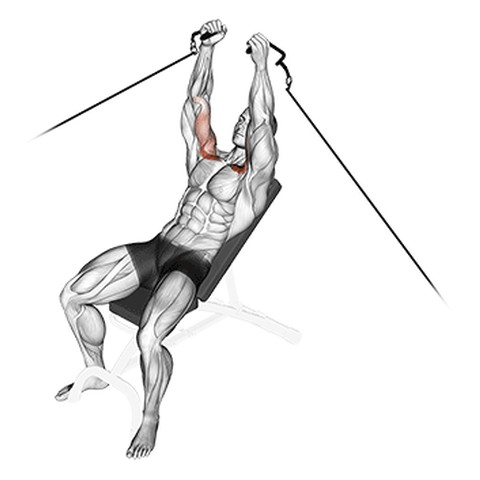
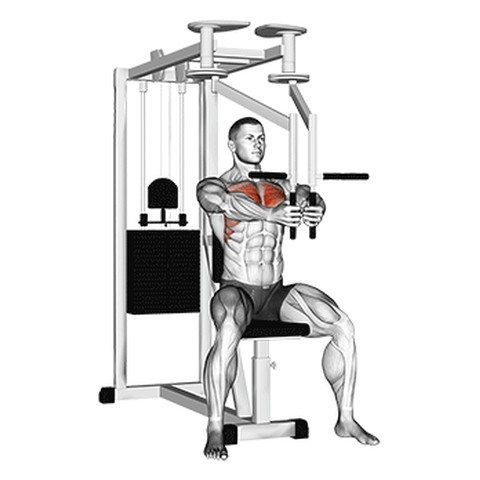
Fix two more previews that used the wrong station.
Neutral pulldown was the wide-grip lat machine, and the upper-chest fly machine was a cable fly.

diff --git a/partials/training.html b/partials/training.html
@@ -48,31 +48,31 @@
                     </div>
                     <div class="space-y-3">
                         <div class="exercise-card bg-[#292524] p-3 rounded-2xl flex gap-3 sm:gap-4">
-                            <img src="images/incline_dumbbell_press.jpg?v=2.4.55" class="w-12 h-12 sm:w-16 sm:h-16 object-contain bg-white rounded-xl flex-shrink-0">
+                            <img src="images/incline_dumbbell_press.jpg?v=2.4.56" class="w-12 h-12 sm:w-16 sm:h-16 object-contain bg-white rounded-xl flex-shrink-0">
                             <div class="text-sm sm:text-base pt-0.5">1. 上斜啞鈴推胸 (Incline Dumbbell Press)</div>
                         </div>
                         <div class="exercise-card bg-[#292524] p-3 rounded-2xl flex gap-3 sm:gap-4">
-                            <img src="images/flat_dumbbell_press.jpg?v=2.4.55" class="w-12 h-12 sm:w-16 sm:h-16 object-contain bg-white rounded-xl flex-shrink-0">
+                            <img src="images/flat_dumbbell_press.jpg?v=2.4.56" class="w-12 h-12 sm:w-16 sm:h-16 object-contain bg-white rounded-xl flex-shrink-0">
                             <div class="text-sm sm:text-base pt-0.5">2. 平板啞鈴推胸 (Flat Dumbbell Press)</div>
                         </div>
                         <div class="exercise-card bg-[#292524] p-3 rounded-2xl flex gap-3 sm:gap-4">
-                            <img src="images/lower_chest_cable_fly.jpg?v=2.4.55" class="w-12 h-12 sm:w-16 sm:h-16 object-contain bg-white rounded-xl flex-shrink-0">
+                            <img src="images/lower_chest_cable_fly.jpg?v=2.4.56" class="w-12 h-12 sm:w-16 sm:h-16 object-contain bg-white rounded-xl flex-shrink-0">
                             <div class="text-sm sm:text-base pt-0.5">3. 下胸繩索飛鳥 (Lower Chest Cable Fly)</div>
                         </div>
                         <div class="exercise-card bg-[#292524] p-3 rounded-2xl flex gap-3 sm:gap-4">
-                            <img src="images/tricep_rope_pushdown.jpg?v=2.4.55" class="w-12 h-12 sm:w-16 sm:h-16 object-contain bg-white rounded-xl flex-shrink-0">
+                            <img src="images/tricep_rope_pushdown.jpg?v=2.4.56" class="w-12 h-12 sm:w-16 sm:h-16 object-contain bg-white rounded-xl flex-shrink-0">
                             <div class="text-sm sm:text-base pt-0.5">4. 繩索三頭下壓 (Tricep Rope Pushdown)</div>
                         </div>
                         <div class="exercise-card bg-[#292524] p-3 rounded-2xl flex gap-3 sm:gap-4">
-                            <img src="images/cable_overhead_triceps.jpg?v=2.4.55" class="w-12 h-12 sm:w-16 sm:h-16 object-contain bg-white rounded-xl flex-shrink-0">
+                            <img src="images/cable_overhead_triceps.jpg?v=2.4.56" class="w-12 h-12 sm:w-16 sm:h-16 object-contain bg-white rounded-xl flex-shrink-0">
                             <div class="text-sm sm:text-base pt-0.5">5. 繩索過頭三頭伸展 (Cable Overhead Triceps Extension)</div>
                         </div>
                         <div class="exercise-card bg-[#292524] p-3 rounded-2xl flex gap-3 sm:gap-4">
-                            <img src="images/seated_dumbbell_press.jpg?v=2.4.55" class="w-12 h-12 sm:w-16 sm:h-16 object-contain bg-white rounded-xl flex-shrink-0" alt="坐姿啞鈴肩推">
+                            <img src="images/seated_dumbbell_press.jpg?v=2.4.56" class="w-12 h-12 sm:w-16 sm:h-16 object-contain bg-white rounded-xl flex-shrink-0" alt="坐姿啞鈴肩推">
                             <div class="text-sm sm:text-base pt-0.5">6. 坐姿啞鈴肩推 (Seated Dumbbell Shoulder Press)</div>
                         </div>
                         <div class="exercise-card bg-[#292524] p-3 rounded-2xl flex gap-3 sm:gap-4">
-                            <img src="images/abdominal_crunch.jpg?v=2.4.55" class="w-12 h-12 sm:w-16 sm:h-16 object-contain bg-white rounded-xl flex-shrink-0" alt="器械捲腹">
+                            <img src="images/abdominal_crunch.jpg?v=2.4.56" class="w-12 h-12 sm:w-16 sm:h-16 object-contain bg-white rounded-xl flex-shrink-0" alt="器械捲腹">
                             <div class="text-sm sm:text-base pt-0.5">7. 器械捲腹 (Machine Abdominal Crunch)</div>
                         </div>
                     </div>
@@ -100,31 +100,31 @@
                     </div>
                     <div class="space-y-3">
                         <div class="exercise-card bg-[#292524] p-3 rounded-2xl flex gap-3 sm:gap-4">
-                            <img src="images/pull_ups.jpg?v=2.4.55" class="w-12 h-12 sm:w-16 sm:h-16 object-contain bg-white rounded-xl flex-shrink-0">
+                            <img src="images/pull_ups.jpg?v=2.4.56" class="w-12 h-12 sm:w-16 sm:h-16 object-contain bg-white rounded-xl flex-shrink-0">
                             <div class="text-sm sm:text-base pt-0.5">1. 引體向上 (Pull-ups)</div>
                         </div>
                         <div class="exercise-card bg-[#292524] p-3 rounded-2xl flex gap-3 sm:gap-4">
-                            <img src="images/deadlift.jpg?v=2.4.55" class="w-12 h-12 sm:w-16 sm:h-16 object-contain bg-white rounded-xl flex-shrink-0">
+                            <img src="images/deadlift.jpg?v=2.4.56" class="w-12 h-12 sm:w-16 sm:h-16 object-contain bg-white rounded-xl flex-shrink-0">
                             <div class="text-sm sm:text-base pt-0.5">2. 硬拉 (Deadlift)</div>
                         </div>
                         <div class="exercise-card bg-[#292524] p-3 rounded-2xl flex gap-3 sm:gap-4">
-                            <img src="images/seated_cable_row.jpg?v=2.4.55" class="w-12 h-12 sm:w-16 sm:h-16 object-contain bg-white rounded-xl flex-shrink-0">
+                            <img src="images/seated_cable_row.jpg?v=2.4.56" class="w-12 h-12 sm:w-16 sm:h-16 object-contain bg-white rounded-xl flex-shrink-0">
                             <div class="text-sm sm:text-base pt-0.5">3. 坐姿繩索拉背 (Seated Cable Row)</div>
                         </div>
                         <div class="exercise-card bg-[#292524] p-3 rounded-2xl flex gap-3 sm:gap-4">
-                            <img src="images/bayesian_cable_curls.jpg?v=2.4.55" class="w-12 h-12 sm:w-16 sm:h-16 object-contain bg-white rounded-xl flex-shrink-0">
+                            <img src="images/bayesian_cable_curls.jpg?v=2.4.56" class="w-12 h-12 sm:w-16 sm:h-16 object-contain bg-white rounded-xl flex-shrink-0">
                             <div class="text-sm sm:text-base pt-0.5">4. 貝葉斯繩索彎舉 (Bayesian Cable Curls)</div>
                         </div>
                         <div class="exercise-card bg-[#292524] p-3 rounded-2xl flex gap-3 sm:gap-4">
-                            <img src="images/preacher_curls.jpg?v=2.4.55" class="w-12 h-12 sm:w-16 sm:h-16 object-contain bg-white rounded-xl flex-shrink-0">
+                            <img src="images/preacher_curls.jpg?v=2.4.56" class="w-12 h-12 sm:w-16 sm:h-16 object-contain bg-white rounded-xl flex-shrink-0">
                             <div class="text-sm sm:text-base pt-0.5">5. 牧師椅彎舉 (Preacher Curls)</div>
                         </div>
                         <div class="exercise-card bg-[#292524] p-3 rounded-2xl flex gap-3 sm:gap-4">
-                            <img src="images/rear_delt_raises.jpg?v=2.4.55" class="w-12 h-12 sm:w-16 sm:h-16 object-contain bg-white rounded-xl flex-shrink-0">
+                            <img src="images/rear_delt_raises.jpg?v=2.4.56" class="w-12 h-12 sm:w-16 sm:h-16 object-contain bg-white rounded-xl flex-shrink-0">
                             <div class="text-sm sm:text-base pt-0.5">6. 後飛 (Rear Delt Raises)</div>
                         </div>
                         <div class="exercise-card bg-[#292524] p-3 rounded-2xl flex gap-3 sm:gap-4">
-                            <img src="images/wood_chopper.jpg?v=2.4.55" class="w-12 h-12 sm:w-16 sm:h-16 object-contain bg-white rounded-xl flex-shrink-0">
+                            <img src="images/wood_chopper.jpg?v=2.4.56" class="w-12 h-12 sm:w-16 sm:h-16 object-contain bg-white rounded-xl flex-shrink-0">
                             <div class="text-sm sm:text-base pt-0.5">7. 斬木 (Wood Chopper)</div>
                         </div>
                     </div>
@@ -152,31 +152,31 @@
                     </div>
                     <div class="space-y-3">
                         <div class="exercise-card bg-[#292524] p-3 rounded-2xl flex gap-3 sm:gap-4">
-                            <img src="images/zercher_squats.jpg?v=2.4.55" class="w-12 h-12 sm:w-16 sm:h-16 object-contain bg-white rounded-xl flex-shrink-0">
+                            <img src="images/zercher_squats.jpg?v=2.4.56" class="w-12 h-12 sm:w-16 sm:h-16 object-contain bg-white rounded-xl flex-shrink-0">
                             <div class="text-sm sm:text-base pt-0.5">1. 澤奇深蹲 (Zercher Squats)</div>
                         </div>
                         <div class="exercise-card bg-[#292524] p-3 rounded-2xl flex gap-3 sm:gap-4">
-                            <img src="images/romanian_deadlift.jpg?v=2.4.55" class="w-12 h-12 sm:w-16 sm:h-16 object-contain bg-white rounded-xl flex-shrink-0" alt="羅馬尼亞硬拉">
+                            <img src="images/romanian_deadlift.jpg?v=2.4.56" class="w-12 h-12 sm:w-16 sm:h-16 object-contain bg-white rounded-xl flex-shrink-0" alt="羅馬尼亞硬拉">
                             <div class="text-sm sm:text-base pt-0.5">2. 羅馬尼亞硬拉 (Romanian Deadlift)</div>
                         </div>
                         <div class="exercise-card bg-[#292524] p-3 rounded-2xl flex gap-3 sm:gap-4">
-                            <img src="images/standing_calf_raise.jpg?v=2.4.55" class="w-12 h-12 sm:w-16 sm:h-16 object-contain bg-white rounded-xl flex-shrink-0" alt="站姿小腿提踵">
+                            <img src="images/standing_calf_raise.jpg?v=2.4.56" class="w-12 h-12 sm:w-16 sm:h-16 object-contain bg-white rounded-xl flex-shrink-0" alt="站姿小腿提踵">
                             <div class="text-sm sm:text-base pt-0.5">3. 站姿小腿提踵 (Standing Calf Raise)</div>
                         </div>
                         <div class="exercise-card bg-[#292524] p-3 rounded-2xl flex gap-3 sm:gap-4">
-                            <img src="images/finger_curls.jpg?v=2.4.55" class="w-12 h-12 sm:w-16 sm:h-16 object-contain bg-white rounded-xl flex-shrink-0">
+                            <img src="images/finger_curls.jpg?v=2.4.56" class="w-12 h-12 sm:w-16 sm:h-16 object-contain bg-white rounded-xl flex-shrink-0">
                             <div class="text-sm sm:text-base pt-0.5">4. 指力彎舉 (Finger Curls)</div>
                         </div>
                         <div class="exercise-card bg-[#292524] p-3 rounded-2xl flex gap-3 sm:gap-4">
-                            <img src="images/reverse_forearm_curl.jpg?v=2.4.55" class="w-12 h-12 sm:w-16 sm:h-16 object-contain bg-white rounded-xl flex-shrink-0">
+                            <img src="images/reverse_forearm_curl.jpg?v=2.4.56" class="w-12 h-12 sm:w-16 sm:h-16 object-contain bg-white rounded-xl flex-shrink-0">
                             <div class="text-sm sm:text-base pt-0.5">5. 反向腕彎舉 (Reverse Forearm Curl)</div>
                         </div>
                         <div class="exercise-card bg-[#292524] p-3 rounded-2xl flex gap-3 sm:gap-4">
-                            <img src="images/lateral_raises.jpg?v=2.4.55" class="w-12 h-12 sm:w-16 sm:h-16 object-contain bg-white rounded-xl flex-shrink-0">
+                            <img src="images/lateral_raises.jpg?v=2.4.56" class="w-12 h-12 sm:w-16 sm:h-16 object-contain bg-white rounded-xl flex-shrink-0">
                             <div class="text-sm sm:text-base pt-0.5">6. 側舉 (Lateral Raises)</div>
                         </div>
                         <div class="exercise-card bg-[#292524] p-3 rounded-2xl flex gap-3 sm:gap-4">
-                            <img src="images/hanging_leg_raise.jpg?v=2.4.55" class="w-12 h-12 sm:w-16 sm:h-16 object-contain bg-white rounded-xl flex-shrink-0">
+                            <img src="images/hanging_leg_raise.jpg?v=2.4.56" class="w-12 h-12 sm:w-16 sm:h-16 object-contain bg-white rounded-xl flex-shrink-0">
                             <div class="text-sm sm:text-base pt-0.5">7. 懸垂舉腿 (Hanging Leg Raise)</div>
                         </div>
                     </div>
@@ -209,31 +209,31 @@
                     <div class="kitchen-note"><i class="fa-solid fa-person-running"></i> 重量之後，跑步機上斜行 20–25 分鐘</div>
                     <div class="space-y-2">
                         <div class="exercise-card bg-[#292524] p-3 rounded-2xl flex gap-3">
-                            <img src="images/flat_dumbbell_press.jpg?v=2.4.55" class="w-12 h-12 object-contain bg-white rounded-xl flex-shrink-0" alt="平板啞鈴推胸">
+                            <img src="images/flat_dumbbell_press.jpg?v=2.4.56" class="w-12 h-12 object-contain bg-white rounded-xl flex-shrink-0" alt="平板啞鈴推胸">
                             <div class="text-sm pt-0.5">1. 平板啞鈴推胸<span class="kitchen-en">Flat Dumbbell Press</span></div>
                         </div>
                         <div class="exercise-card bg-[#292524] p-3 rounded-2xl flex gap-3">
-                            <img src="images/tricep_rope_pushdown.jpg?v=2.4.55" class="w-12 h-12 object-contain bg-white rounded-xl flex-shrink-0" alt="繩索三頭下壓">
+                            <img src="images/tricep_rope_pushdown.jpg?v=2.4.56" class="w-12 h-12 object-contain bg-white rounded-xl flex-shrink-0" alt="繩索三頭下壓">
                             <div class="text-sm pt-0.5">2. 繩索三頭下壓<span class="kitchen-en">Triceps Pushdown</span></div>
                         </div>
                         <div class="exercise-card bg-[#292524] p-3 rounded-2xl flex gap-3">
-                            <img src="images/romanian_dumbbell_deadlift.jpg?v=2.4.55" class="w-12 h-12 object-contain bg-white rounded-xl flex-shrink-0" alt="羅馬尼亞啞鈴硬拉">
+                            <img src="images/romanian_dumbbell_deadlift.jpg?v=2.4.56" class="w-12 h-12 object-contain bg-white rounded-xl flex-shrink-0" alt="羅馬尼亞啞鈴硬拉">
                             <div class="text-sm pt-0.5">3. 羅馬尼亞啞鈴硬拉<span class="kitchen-en">Romanian Dumbbell Deadlift</span></div>
                         </div>
                         <div class="exercise-card bg-[#292524] p-3 rounded-2xl flex gap-3">
-                            <img src="images/goblet_squat.jpg?v=2.4.55" class="w-12 h-12 object-contain bg-white rounded-xl flex-shrink-0" alt="高腳杯深蹲">
+                            <img src="images/goblet_squat.jpg?v=2.4.56" class="w-12 h-12 object-contain bg-white rounded-xl flex-shrink-0" alt="高腳杯深蹲">
                             <div class="text-sm pt-0.5">4. 高腳杯深蹲<span class="kitchen-en">Goblet Squat</span></div>
                         </div>
                         <div class="exercise-card bg-[#292524] p-3 rounded-2xl flex gap-3">
-                            <img src="images/lateral_raises.jpg?v=2.4.55" class="w-12 h-12 object-contain bg-white rounded-xl flex-shrink-0" alt="側舉">
+                            <img src="images/lateral_raises.jpg?v=2.4.56" class="w-12 h-12 object-contain bg-white rounded-xl flex-shrink-0" alt="側舉">
                             <div class="text-sm pt-0.5">5. 側舉<span class="kitchen-en">Lateral Raise</span></div>
                         </div>
                         <div class="exercise-card bg-[#292524] p-3 rounded-2xl flex gap-3">
-                            <img src="images/abdominal_crunch.jpg?v=2.4.55" class="w-12 h-12 object-contain bg-white rounded-xl flex-shrink-0" alt="器械捲腹">
+                            <img src="images/abdominal_crunch.jpg?v=2.4.56" class="w-12 h-12 object-contain bg-white rounded-xl flex-shrink-0" alt="器械捲腹">
                             <div class="text-sm pt-0.5">6. 器械捲腹<span class="kitchen-en">Abdominal Crunch</span></div>
                         </div>
                         <div class="exercise-card kitchen-cardio bg-[#292524] p-3 rounded-2xl flex gap-3">
-                            <img src="images/treadmill.jpg?v=2.4.55" class="w-12 h-12 object-contain bg-white rounded-xl flex-shrink-0" alt="跑步機">
+                            <img src="images/treadmill.jpg?v=2.4.56" class="w-12 h-12 object-contain bg-white rounded-xl flex-shrink-0" alt="跑步機">
                             <div class="text-sm pt-0.5"><span class="kitchen-tag">有氧</span>跑步機 · 上斜行<span class="kitchen-en">20–25 分鐘，重量之後</span></div>
                         </div>
                     </div>
@@ -258,35 +258,35 @@
                     <div class="kitchen-note"><i class="fa-solid fa-person-running"></i> 划船機 15–20 分鐘；俾人用就踏步機或單車</div>
                     <div class="space-y-2">
                         <div class="exercise-card bg-[#292524] p-3 rounded-2xl flex gap-3">
-                            <img src="images/lat_pulldown.jpg?v=2.4.55" class="w-12 h-12 object-contain bg-white rounded-xl flex-shrink-0" alt="寬握下拉">
+                            <img src="images/lat_pulldown.jpg?v=2.4.56" class="w-12 h-12 object-contain bg-white rounded-xl flex-shrink-0" alt="寬握下拉">
                             <div class="text-sm pt-0.5">1. 寬握下拉<span class="kitchen-en">Lat Pulldown</span></div>
                         </div>
                         <div class="exercise-card bg-[#292524] p-3 rounded-2xl flex gap-3">
-                            <img src="images/dumbbell_curl.jpg?v=2.4.55" class="w-12 h-12 object-contain bg-white rounded-xl flex-shrink-0" alt="啞鈴彎舉">
+                            <img src="images/dumbbell_curl.jpg?v=2.4.56" class="w-12 h-12 object-contain bg-white rounded-xl flex-shrink-0" alt="啞鈴彎舉">
                             <div class="text-sm pt-0.5">2. 啞鈴彎舉<span class="kitchen-en">Dumbbell Curl</span></div>
                         </div>
                         <div class="exercise-card bg-[#292524] p-3 rounded-2xl flex gap-3">
-                            <img src="images/cable_hip_abduction.jpg?v=2.4.55" class="w-12 h-12 object-contain bg-white rounded-xl flex-shrink-0" alt="繩索髖外展">
+                            <img src="images/cable_hip_abduction.jpg?v=2.4.56" class="w-12 h-12 object-contain bg-white rounded-xl flex-shrink-0" alt="繩索髖外展">
                             <div class="text-sm pt-0.5">3. 繩索髖外展<span class="kitchen-en">Cable Hip Abduction</span></div>
                         </div>
                         <div class="exercise-card bg-[#292524] p-3 rounded-2xl flex gap-3">
-                            <img src="images/hip_thrust.jpg?v=2.4.55" class="w-12 h-12 object-contain bg-white rounded-xl flex-shrink-0" alt="臀推">
+                            <img src="images/hip_thrust.jpg?v=2.4.56" class="w-12 h-12 object-contain bg-white rounded-xl flex-shrink-0" alt="臀推">
                             <div class="text-sm pt-0.5">4. 臀推<span class="kitchen-en">Hip Thrust</span></div>
                         </div>
                         <div class="exercise-card bg-[#292524] p-3 rounded-2xl flex gap-3">
-                            <img src="images/rear_delt_raises.jpg?v=2.4.55" class="w-12 h-12 object-contain bg-white rounded-xl flex-shrink-0" alt="後飛">
+                            <img src="images/rear_delt_raises.jpg?v=2.4.56" class="w-12 h-12 object-contain bg-white rounded-xl flex-shrink-0" alt="後飛">
                             <div class="text-sm pt-0.5">5. 後飛<span class="kitchen-en">Rear Delt Raise</span></div>
                         </div>
                         <div class="exercise-card bg-[#292524] p-3 rounded-2xl flex gap-3">
-                            <img src="images/cable_wood_chopper.jpg?v=2.4.55" class="w-12 h-12 object-contain bg-white rounded-xl flex-shrink-0" alt="斬木">
+                            <img src="images/cable_wood_chopper.jpg?v=2.4.56" class="w-12 h-12 object-contain bg-white rounded-xl flex-shrink-0" alt="斬木">
                             <div class="text-sm pt-0.5">6. 斬木<span class="kitchen-en">Wood Chopper</span></div>
                         </div>
                         <div class="exercise-card bg-[#292524] p-3 rounded-2xl flex gap-3">
-                            <img src="images/hanging_leg_raise.jpg?v=2.4.55" class="w-12 h-12 object-contain bg-white rounded-xl flex-shrink-0" alt="懸垂舉腿">
+                            <img src="images/hanging_leg_raise.jpg?v=2.4.56" class="w-12 h-12 object-contain bg-white rounded-xl flex-shrink-0" alt="懸垂舉腿">
                             <div class="text-sm pt-0.5">7. 懸垂舉腿<span class="kitchen-en">Hanging Leg Raise</span></div>
                         </div>
                         <div class="exercise-card kitchen-cardio bg-[#292524] p-3 rounded-2xl flex gap-3">
-                            <img src="images/rowing_machine.jpg?v=2.4.55" class="w-12 h-12 object-contain bg-white rounded-xl flex-shrink-0" alt="划船機">
+                            <img src="images/rowing_machine.jpg?v=2.4.56" class="w-12 h-12 object-contain bg-white rounded-xl flex-shrink-0" alt="划船機">
                             <div class="text-sm pt-0.5"><span class="kitchen-tag">有氧</span>划船機<span class="kitchen-en">15–20 分鐘，或踏步機／單車</span></div>
                         </div>
                     </div>

diff --git a/js/exercise-gif-map.js b/js/exercise-gif-map.js
@@ -20,7 +20,7 @@ const EXERCISE_GIF_MAP = {
     incline_chest_press_machine: '1299',
     decline_press_machine: '1300',
     pec_deck: '0596',
-    upper_chest_fly: '0171',
+    upper_chest_fly: '0596',
     standing_fly_machine: '0227',
     assisted_dip: '0009',
 
@@ -39,7 +39,7 @@ const EXERCISE_GIF_MAP = {
     face_pulls: '0233',
     high_row: '0581',
     assisted_pull_up: '0017',
-    neutral_pulldown: '0579',
+    neutral_pulldown: '0818',
     pullover_machine: '2285',
     iso_lateral_row: '1313',
 

diff --git a/js/data.js b/js/data.js
@@ -283,7 +283,7 @@ function getExerciseByName(name) {
 
 function resolveExerciseImage(src) {
     if (src && typeof src === 'string' && src.indexOf('images/') === 0) {
-        if (src.indexOf('v=') === -1) return src + (src.indexOf('?') >= 0 ? '&' : '?') + 'v=2.4.55';
+        if (src.indexOf('v=') === -1) return src + (src.indexOf('?') >= 0 ? '&' : '?') + 'v=2.4.56';
         return src;
     }
     return 'images/icon.jpeg';

diff --git a/js/boot.js b/js/boot.js
@@ -1,6 +1,6 @@
 // js/boot.js — 組裝 partials，再按順序載入 app scripts（GitHub Pages 相對路徑）
 (function () {
-    var VERSION = '2.4.55';
+    var VERSION = '2.4.56';
     var PARTIALS = [
         'partials/overview.html',
         'partials/schedule.html',

diff --git a/sw.js b/sw.js
@@ -1,5 +1,5 @@
 // Recomp PWA: precache shell only. 動作圖／山圖／xlsx 按需要 cache-on-demand。
-const CACHE_NAME = 'recomp-charity-v2.4.55';
+const CACHE_NAME = 'recomp-charity-v2.4.56';
 
 const CORE_ASSETS = [
   './',

diff --git a/index.html b/index.html
@@ -157,6 +157,6 @@ Local Development Instructions:
             });
         }
     </script>
-    <script src="js/boot.js?v=2.4.55"></script>
+    <script src="js/boot.js?v=2.4.56"></script>
 </body>
 </html>
